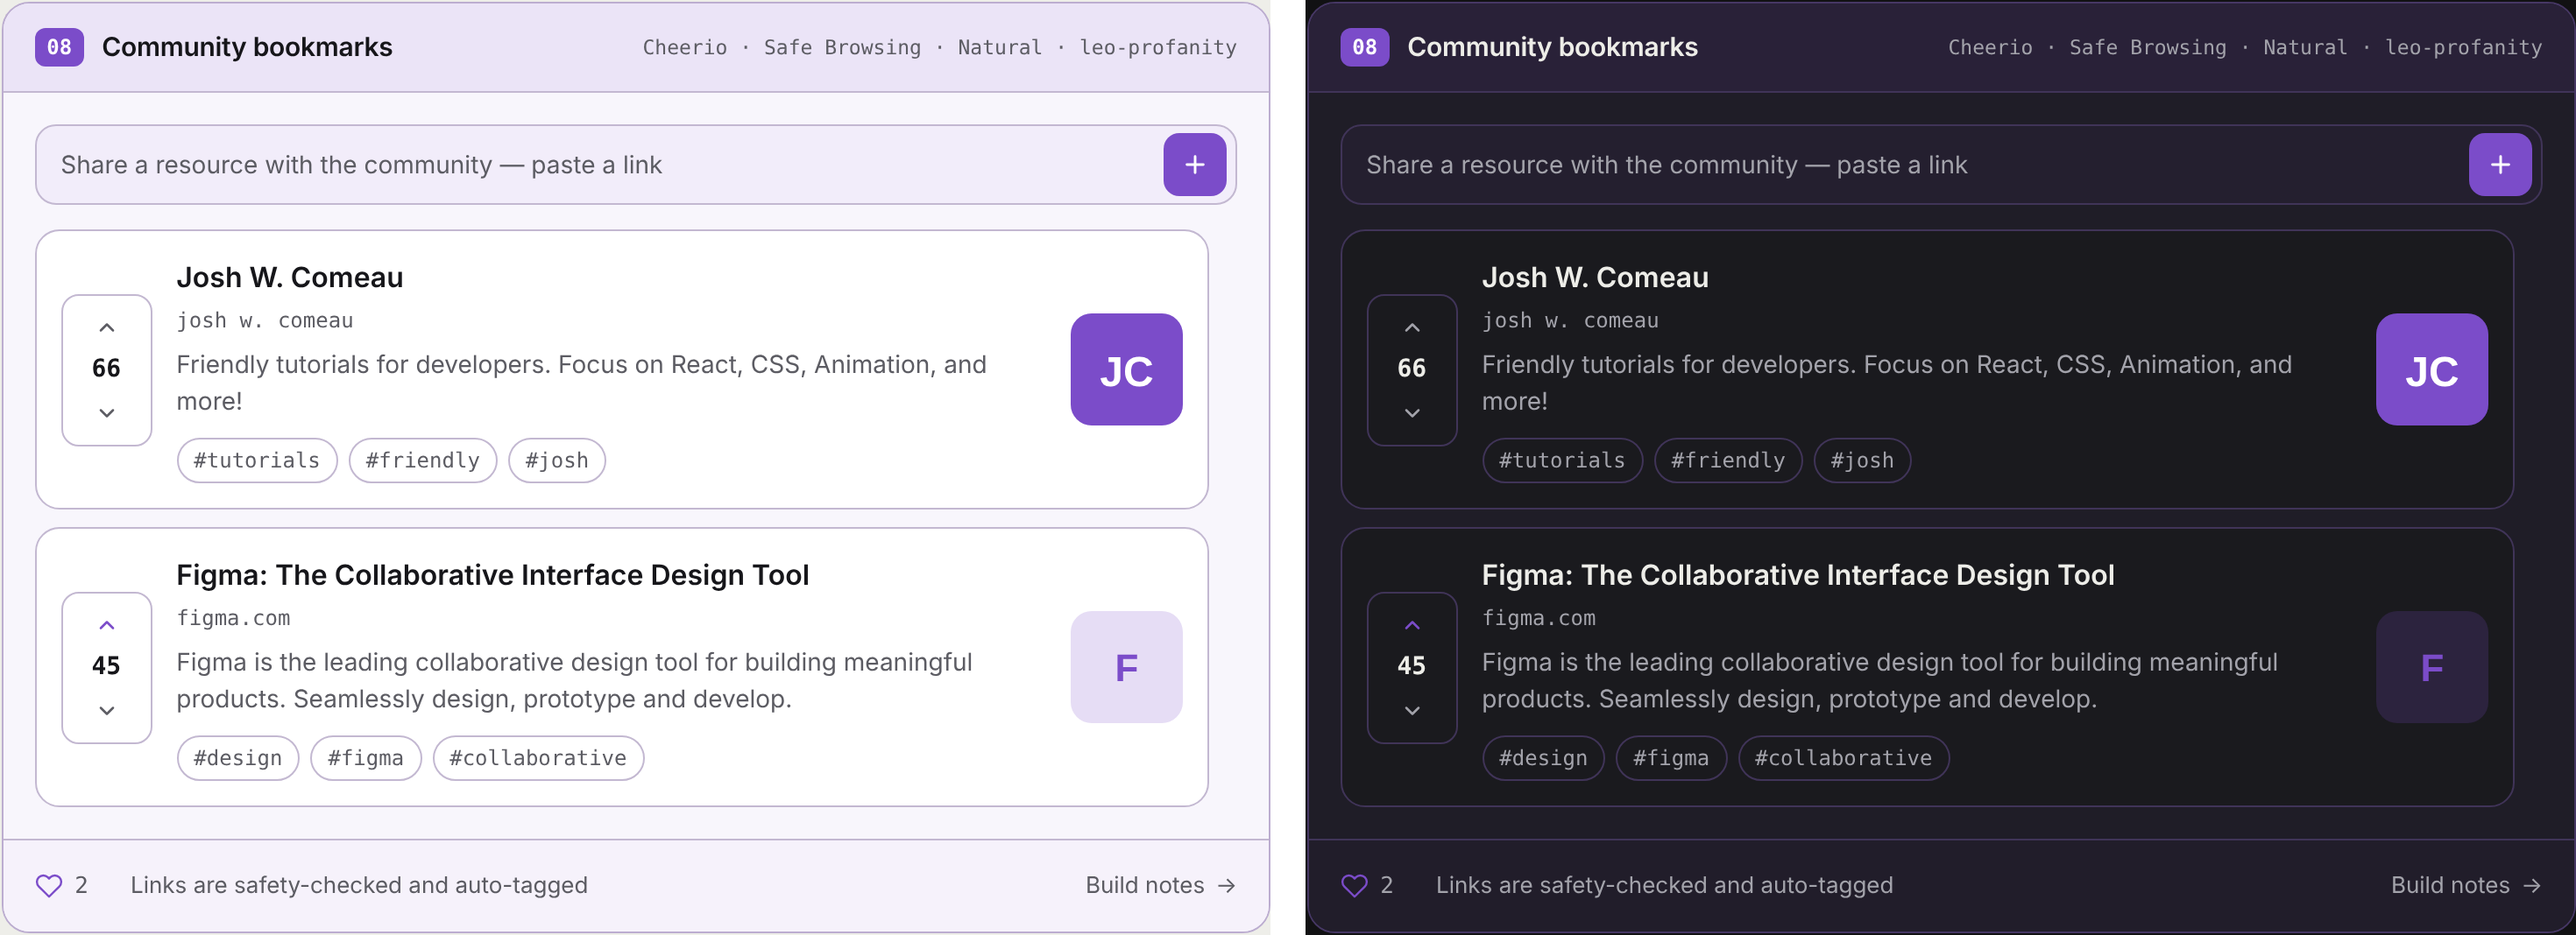
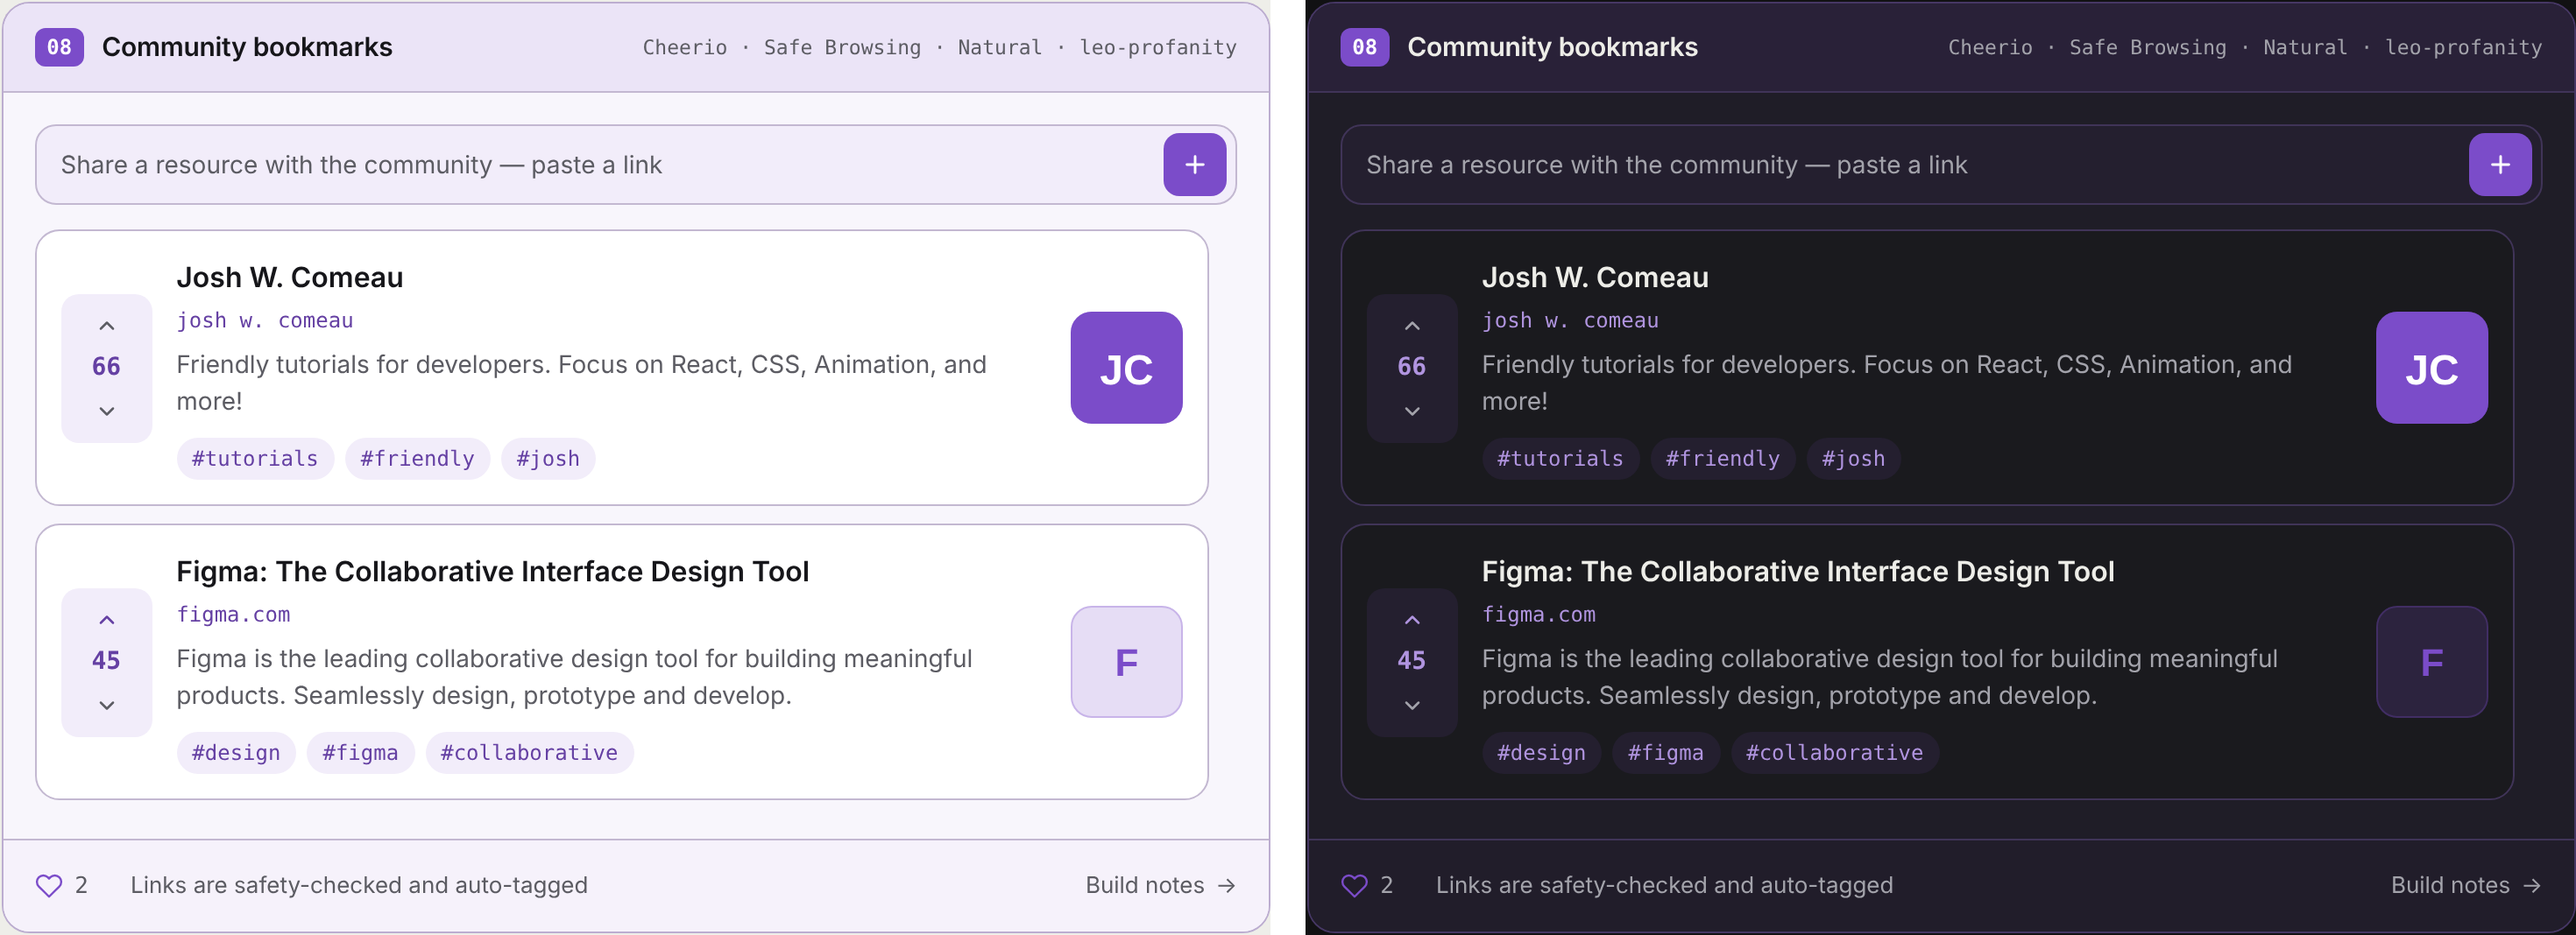
Fix currency grid overflow, add purple accents to bookmarks

diff --git a/client/src/widgets/08/style.scss b/client/src/widgets/08/style.scss
@@ -1,6 +1,13 @@
 // Widget 08: Community bookmarks (v2)
 
 #widget-08 {
+  // purple text that stays readable on both themes (pure --accent is too dark on the dark card)
+  --bm-ink: color-mix(in srgb, var(--accent) 78%, var(--ink));
+
+  .dark & {
+    --bm-ink: color-mix(in srgb, var(--accent) 60%, #fff);
+  }
+
   // ---------- share field ----------
   .add-field {
     display: flex;
@@ -103,10 +110,12 @@
     animation: rise 0.45s var(--ease) both;
     transition:
       border-color 0.2s,
+      background-color 0.2s,
       transform 0.25s var(--ease);
 
     &:hover {
-      border-color: var(--wf);
+      border-color: color-mix(in srgb, var(--wf) 55%, var(--line));
+      background: color-mix(in srgb, var(--soft) 55%, var(--card));
       transform: translateY(-2px);
 
       .bookmark-content--img {
@@ -121,8 +130,8 @@
     flex-direction: column;
     align-items: center;
     padding: 4px 0;
-    border: 1px solid var(--line);
     border-radius: 10px;
+    background: var(--soft);
 
     button {
       display: grid;
@@ -139,12 +148,12 @@
         background-color 0.2s;
 
       &:hover {
-        background: var(--soft);
-        color: var(--ink);
+        background: var(--soft2);
+        color: var(--bm-ink);
       }
 
       &[aria-pressed='true'] {
-        color: var(--wf);
+        color: var(--bm-ink);
       }
 
       &.pop svg {
@@ -154,6 +163,7 @@
   }
 
   .bookmark-score {
+    color: var(--bm-ink);
     font-family: 'Geist Mono', monospace;
     font-size: 14px;
     font-weight: 600;
@@ -182,7 +192,7 @@
   }
 
   .bookmark-author {
-    color: var(--muted);
+    color: var(--bm-ink);
     font-family: 'Geist Mono', monospace;
     font-size: 12px;
   }
@@ -205,9 +215,9 @@
 
   .topic {
     padding: 3px 9px;
-    border: 1px solid var(--line);
     border-radius: 999px;
-    color: var(--muted);
+    background: var(--soft);
+    color: var(--bm-ink);
     font-family: 'Geist Mono', monospace;
     font-size: 12px;
   }
@@ -222,6 +232,8 @@
     overflow: hidden;
     border-radius: 12px;
     background: var(--soft2);
+    outline: 1px solid color-mix(in srgb, var(--wf) 28%, transparent);
+    outline-offset: -1px;
     transition: transform 0.3s var(--ease);
 
     img {

diff --git a/client/src/widgets/05/style.scss b/client/src/widgets/05/style.scss
@@ -351,9 +351,10 @@
   }
 
   // ---------- currencies ----------
+  // as many columns as fit (2 on a wide card, 1 on a narrow one) instead of a fixed 2
   .currency-container .card-group {
     display: grid;
-    grid-template-columns: repeat(2, minmax(0, 1fr));
+    grid-template-columns: repeat(auto-fill, minmax(min(100%, 230px), 1fr));
     align-content: start;
     gap: 4px 16px;
   }
@@ -380,11 +381,20 @@
     }
   }
 
+  .currency-container .card {
+    min-width: 0;
+  }
+
   .currency-container .card-head {
     display: flex;
     align-items: center;
     gap: 10px;
+    min-width: 0;
     padding: 8px 4px;
+  }
+
+  .currency-container .card-heading--price {
+    flex: none;
   }
 
   .currency-container .card-heading--name {
@@ -492,8 +502,5 @@
       grid-template-columns: repeat(2, minmax(0, 1fr));
     }
 
-    .currency-container .card-group {
-      grid-template-columns: 1fr;
-    }
   }
 }

diff --git a/client/src/main/styles/main.css b/client/src/main/styles/main.css
@@ -461,6 +461,9 @@ body img {
 
   .scroll-area {
     overflow-y: auto;
+    /* overflow-y: auto quietly makes overflow-x auto too, so any 1px overflow
+       showed a sideways scrollbar; lists here should only ever scroll vertically */
+    overflow-x: hidden;
     padding-right: 10px;
     margin-right: -4px;
     scrollbar-gutter: stable;
